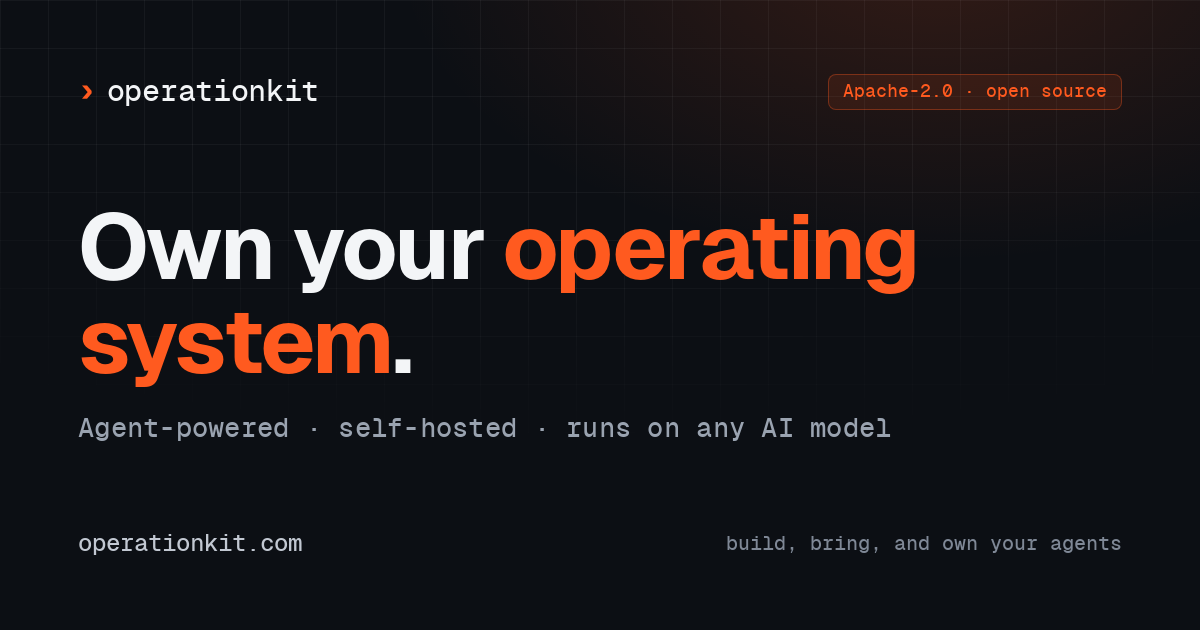
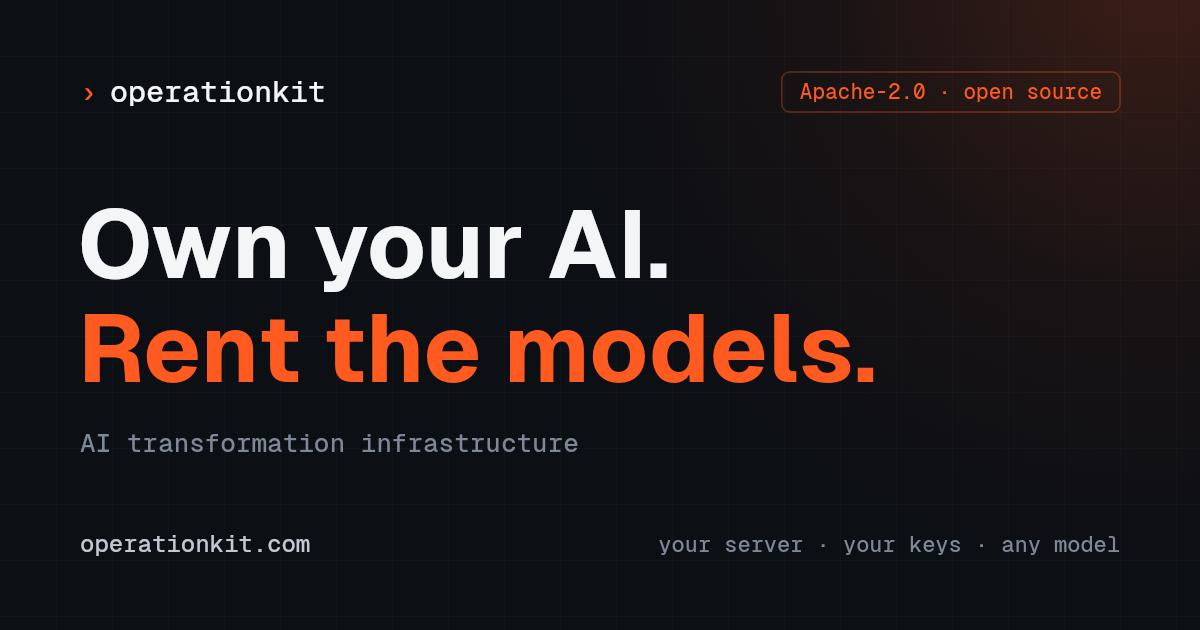
Reword site as AI transformation infrastructure: hero, meta, og-image
- title/og:title/twitter:title -> "OperationKit: AI transformation infrastructure"
- description/og:description/twitter:description unified to the new positioning line
- og:image:alt updated to match the new card
- hero: new eyebrow, H1 "Own your AI. Rent the models.", new subhead, and the old
  line kept as a secondary line
- "Why own it" section rewritten to the pricing/lock-in framing with three points
- og-image.png regenerated (1200x630, Geist, same dark/Signal-Orange design)

Command Center objective #720647

diff --git a/index.html b/index.html
@@ -3,8 +3,8 @@
 <head>
   <meta charset="utf-8" />
   <meta name="viewport" content="width=device-width, initial-scale=1" />
-  <title>OperationKit: Bring your own agent. Keep your own work.</title>
-  <meta name="description" content="Self-hosted work-and-knowledge infrastructure for AI agents. Connect Claude Code, Codex, Grok Build, or OpenClaw over MCP. Apache-2.0." />
+  <title>OperationKit: AI transformation infrastructure</title>
+  <meta name="description" content="AI transformation infrastructure for businesses. A self-hosted knowledge base and agent board that works with Claude, Codex, Grok and open-weight models. Run it in-house, license it, or have us set up your server and run it for you. Apache-2.0." />
   <meta name="theme-color" content="#0c0f14" />
 
   <!-- no-flash theme init: default dark; honor a stored 'light' preference before first paint -->
@@ -17,17 +17,17 @@
 
   <meta property="og:type" content="website" />
   <meta property="og:site_name" content="OperationKit" />
-  <meta property="og:title" content="OperationKit: Bring your own agent. Keep your own work." />
-  <meta property="og:description" content="Self-hosted work-and-knowledge infrastructure for AI agents. Connect Claude Code, Codex, Grok Build, or OpenClaw over MCP." />
+  <meta property="og:title" content="OperationKit: AI transformation infrastructure" />
+  <meta property="og:description" content="AI transformation infrastructure for businesses. A self-hosted knowledge base and agent board that works with Claude, Codex, Grok and open-weight models. Run it in-house, license it, or have us set up your server and run it for you. Apache-2.0." />
   <link rel="canonical" href="https://operationkit.com/" />
   <meta property="og:url" content="https://operationkit.com/" />
   <meta property="og:image" content="https://operationkit.com/og-image.png" />
   <meta property="og:image:width" content="1200" />
   <meta property="og:image:height" content="630" />
-  <meta property="og:image:alt" content="OperationKit. Bring your own agent. Keep your own work." />
+  <meta property="og:image:alt" content="OperationKit. Own your AI. Rent the models. AI transformation infrastructure." />
   <meta name="twitter:card" content="summary_large_image" />
-  <meta name="twitter:title" content="OperationKit: Bring your own agent. Keep your own work." />
-  <meta name="twitter:description" content="Self-hosted work-and-knowledge infrastructure for AI agents. Connect Claude Code, Codex, Grok Build, or OpenClaw over MCP. Apache-2.0." />
+  <meta name="twitter:title" content="OperationKit: AI transformation infrastructure" />
+  <meta name="twitter:description" content="AI transformation infrastructure for businesses. A self-hosted knowledge base and agent board that works with Claude, Codex, Grok and open-weight models. Run it in-house, license it, or have us set up your server and run it for you. Apache-2.0." />
   <meta name="twitter:image" content="https://operationkit.com/og-image.png" />
 
   <link rel="preload" as="font" type="font/woff2" href="fonts/geist-sans-700.woff2" crossorigin />
@@ -73,8 +73,10 @@
         <div class="status-pill">
           <i class="live-dot"></i> Self-hosted &middot; Agent-agnostic &middot; MCP-ready &middot; Apache-2.0
         </div>
-        <h1>Bring your own agent.<br><span class="accent">Keep your own work.</span></h1>
-        <p class="hero-oneliner">A self-hosted board and knowledge base that any personal AI agent can drive over MCP, Claude Code, Codex, Grok Build, OpenClaw, or whatever you run next year. Swap the agent and the work stays, because none of it ever lived inside the agent.</p>
+        <p class="eyebrow">AI transformation infrastructure &middot; Self-hosted &middot; Any model &middot; Apache-2.0</p>
+        <h1>Own your AI.<br><span class="accent">Rent the models.</span></h1>
+        <p class="hero-oneliner">Your knowledge base, agents and workflows live on your own server, not inside an AI lab's product. Run Claude today, GPT or Grok tomorrow, or an open-weight model on your own hardware when the price is right. Run it in-house, license it as a consultant, or have us set up your server and run it for you.</p>
+        <p class="hero-oneliner">Bring your own agent. Keep your own work.</p>
         <div class="hero-ctas">
           <a class="btn btn-primary" href="/waitlist/">
             Join the waitlist
@@ -151,28 +153,26 @@
       <div class="wrap">
         <div class="sec-head reveal">
           <p class="eyebrow">Why own it</p>
-          <h2>Infrastructure you own outlasts any one model.</h2>
-          <p class="lead">AI labs are racing toward IPOs, and public markets price growth, not margin. Today's below-cost token pricing is a land-grab subsidy, not a floor.</p>
+          <h2>Don't get priced out of your own workflows.</h2>
+          <p class="lead">Here's how it usually goes. You build on one lab's models, agents and memory. You get productive, then you depend on it. Then the price goes up, and your playbooks, context and history are stuck inside someone else's product.</p>
         </div>
 
         <div class="ownership reveal" style="max-width:68ch;margin-bottom:40px">
-          <p>Once a lab answers to shareholders, usage at your scale gets repriced toward what it actually costs to serve. If your business runs on AI at volume, the cheapest and most durable move is to own the infrastructure that work runs on, so the model underneath is a swappable input, not a structural dependency.</p>
-          <p>OperationKit is built that way. Your skills, agents, and knowledge base live in plain files on your own server, not inside Anthropic's, OpenAI's, or xAI's product. Point OperationKit at Claude today. Point it at GPT or Grok next quarter. Point it at an open-weight model on your own GPUs the quarter after that, once the economics or the capability bar make that the better call. The work you've built, your context, your playbooks, your history of decisions, comes with you every time, because none of it was ever stored in the model provider's walled garden.</p>
-          <p>This isn't a bet against any one lab. It's a bet that the labs' pricing and policies will keep changing faster than your business should have to, and that the only durable position is to own the layer above the model, not rent your operating system from inside someone else's.</p>
+          <p>Operation Kit keeps all of that on your server, as plain files and a database you control. The model underneath is swappable. When one gets expensive, gets worse or goes down, you switch and keep working.</p>
         </div>
 
         <div class="obj-list reveal">
           <div class="obj-item">
             <svg class="tick" viewBox="0 0 24 24" fill="none" stroke="currentColor" stroke-width="2" stroke-linecap="round" stroke-linejoin="round" aria-hidden="true"><polyline points="20 6 9 17 4 12"/></svg>
-            <p><b>Own your compute.</b> Run it on a VPS you control. No usage ceiling set by someone else's infrastructure budget.</p>
+            <p><b>Own your data.</b> Skills, agents and knowledge are files you keep.</p>
           </div>
           <div class="obj-item">
             <svg class="tick" viewBox="0 0 24 24" fill="none" stroke="currentColor" stroke-width="2" stroke-linecap="round" stroke-linejoin="round" aria-hidden="true"><polyline points="20 6 9 17 4 12"/></svg>
-            <p><b>Own your data.</b> Skills, agents, and the knowledge base are plain markdown and a database you control, not locked inside a vendor's product.</p>
+            <p><b>Own your compute.</b> Your server, with no limits set by someone else.</p>
           </div>
           <div class="obj-item">
             <svg class="tick" viewBox="0 0 24 24" fill="none" stroke="currentColor" stroke-width="2" stroke-linecap="round" stroke-linejoin="round" aria-hidden="true"><polyline points="20 6 9 17 4 12"/></svg>
-            <p><b>No lock-in.</b> Claude, GPT, Grok, or your own GPUs underneath. You own the car; you don't rebuild it to use a different gas station.</p>
+            <p><b>Use any model.</b> Claude, GPT, Grok or open-weight, and you can change whenever you want.</p>
           </div>
         </div>
       </div>
